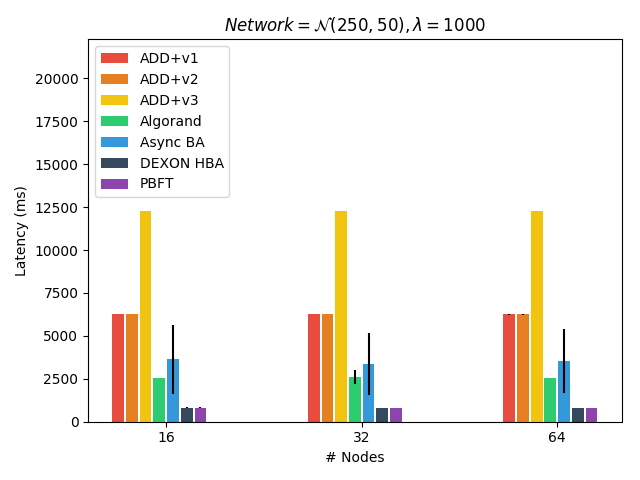
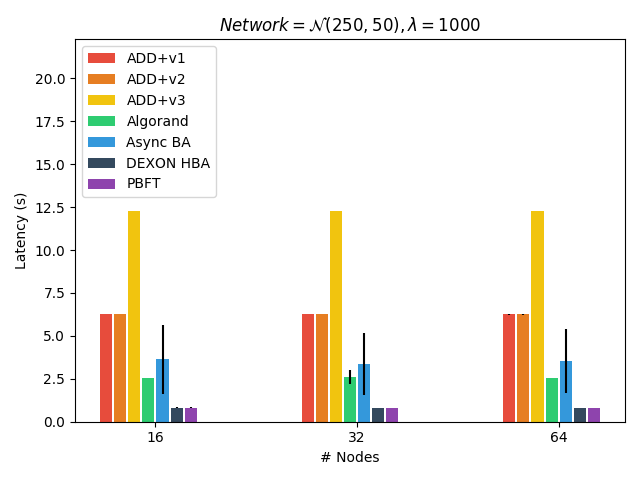
normal case change latency ms to s

diff --git a/draw-normal.py b/draw-normal.py
@@ -30,7 +30,7 @@ seperateDist = 0.04
 def draw(expData):
     fig, ax = plt.subplots()
     # Add some text for labels, title and custom x-axis tick labels, etc.
-    ax.set_ylabel('# Messages')
+    ax.set_ylabel('Latency (s)')
     ax.set_xlabel('# Nodes')
     ax.set_title(r'$Network = \mathcal{N}(1000, 300), \lambda = 1000$')
     ind = np.arange(len(expData[0]['means']))  # the x locations for the groups
@@ -48,15 +48,15 @@ def draw(expData):
         
         #autolabel(rects, ax)
     print(yMax)
-    #plt.ylim(top=yMax + 70000)
-    plt.yscale('log', nonposy='clip')
+    plt.ylim(top=yMax + 5)
+    #plt.yscale('log', nonposy='clip')
     ax.legend(loc='upper left')
     fig.tight_layout()
     #plt.text(2, 2, 'resolve', ha='right', va='center')
     plt.show()
 
 data = normal2.data
-t = 'm'
+t = 'l'
 mean = t + '_mean'
 std = t + '_std'
 expData = [
@@ -103,6 +103,11 @@ expData = [
         'color': '#8e44ad'
     }
 ]
+# latency ms to s
+if (t == 'l'):
+    for data in expData:
+        data['means'] = [i / 1000 for i in data['means']]
+        data['std'] = [i / 1000 for i in data['std']]
 # calculate pos
 l = len(expData)
 poss = range(0, l)
